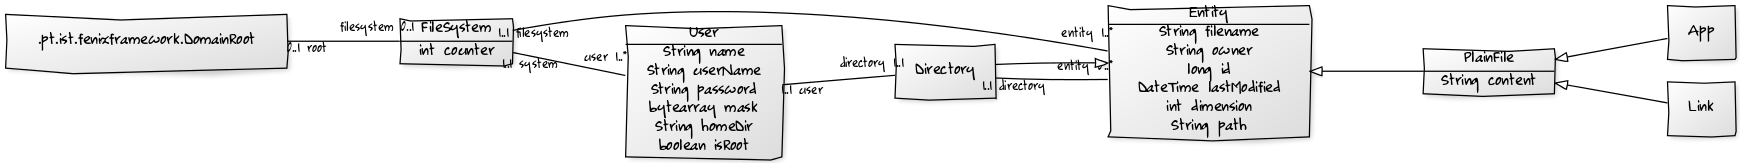
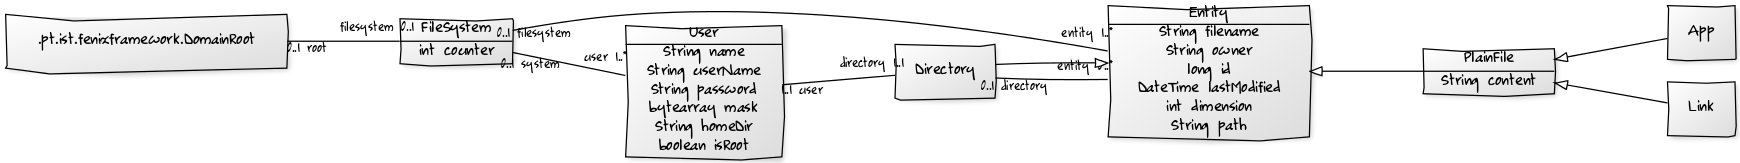
[UPDATE] dml modificado -- multiplicidades, xml do filesystem modificado

diff --git a/src/main/java/pt/tecnico/myDrive/Main.java b/src/main/java/pt/tecnico/myDrive/Main.java
@@ -10,6 +10,7 @@ import org.jdom2.JDOMException;
 import org.jdom2.input.SAXBuilder;
 import org.jdom2.output.Format;
 import org.jdom2.output.XMLOutputter;
+import org.joda.time.DateTime;
 import org.apache.logging.log4j.LogManager;
 import org.apache.logging.log4j.Logger;
 
@@ -26,23 +27,43 @@ public class Main {
 	try {
 	    
 	    setup();
-	    //for (String s: args) xmlScan(new File(s));
-		//print();
+	    for (String s: args) xmlScan(new File(s));
+		print();
 	    xmlPrint(); 
 	    
 	} finally { FenixFramework.shutdown(); }
     }
-/*
+
     @Atomic
     public static void init() {
         log.trace("Init: " + FenixFramework.getDomainRoot());
         FileSystem.getInstance().cleanup();
     }
-*/
+
     @Atomic
     public static void setup() {
         log.trace("Setup: " + FenixFramework.getDomainRoot());
         FileSystem fs = FileSystem.getInstance(); 
+        
+        User user;
+    	Directory d;
+    	Entity f;
+    	DateTime data = new DateTime();
+    	log.trace("new FileSyste3");
+    	new Entity();
+        if (!fs.getUserSet().isEmpty()) return;
+        
+        else{
+        	log.trace("new FileSystem4");
+        	user = new User(fs, "maria","maria", "***", null, "home", true);
+        	d = new Directory(user,fs,"home","cenas",user.getUserName(), 0, data ,2, null);
+        	log.trace("new FileSystem5");
+        	f = new Entity(fs, "/home/homee","home","root",0,d.getLastModified() ,2);
+        	log.trace("new FileSystem6");
+        	new Entity();
+        	log.trace("new FileSystem7");
+        	return;
+        }
     }
 
     @Atomic
@@ -67,7 +88,7 @@ public class Main {
         } 
         catch (IOException e) { System.out.println(e); }
     }
-/*
+
     @Atomic
     public static void xmlScan(File file) {
         log.trace("xmlScan: " + FenixFramework.getDomainRoot());
@@ -75,8 +96,8 @@ public class Main {
         SAXBuilder builder = new SAXBuilder();
         try {
         	Document document = (Document)builder.build(file);
-        	fs.xmlImport(document.getRootElement());
+        	fs.xmlImport(document);
         } catch (JDOMException | IOException e) { e.printStackTrace(); }
     }
-*/
+
 }

diff --git a/src/main/java/pt/tecnico/myDrive/domain/FileSystem.java b/src/main/java/pt/tecnico/myDrive/domain/FileSystem.java
@@ -2,6 +2,7 @@ package pt.tecnico.myDrive.domain;
 
 import org.apache.logging.log4j.LogManager;
 import org.apache.logging.log4j.Logger;
+import org.jdom2.Content;
 import org.jdom2.Document;
 import org.jdom2.Element;
 import org.joda.time.DateTime;
@@ -248,10 +249,8 @@ public class FileSystem extends FileSystem_Base {
     public Document xmlExport(){
     	Element element = new Element("FileSystem");
 		Document doc = new Document(element);
-		
 		for(User u: getUserSet())
-			doc.addContent(u.xmlExport().getRootElement());
-		
+			element.addContent(u.xmlExport().detachRootElement());
 		return doc;
     }
     

diff --git a/src/main/java/pt/tecnico/myDrive/domain/User.java b/src/main/java/pt/tecnico/myDrive/domain/User.java
@@ -58,7 +58,7 @@ public class User extends User_Base {
     	element.setAttribute("name", getName());
     	element.setAttribute("password", getPassword());
     	element.setAttribute("homeDir", getHomeDir());
-    	element.setAttribute("rwxd", getMask().toString());
+    	//element.setAttribute("rwxd", getMask().toString());
     	
     	Document document = new Document(element);
     	
